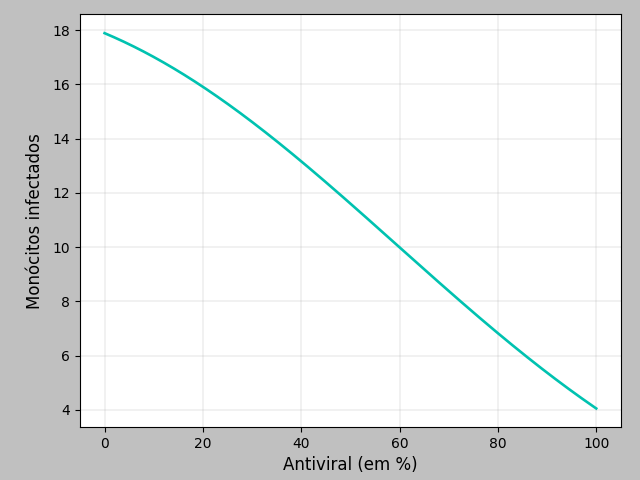
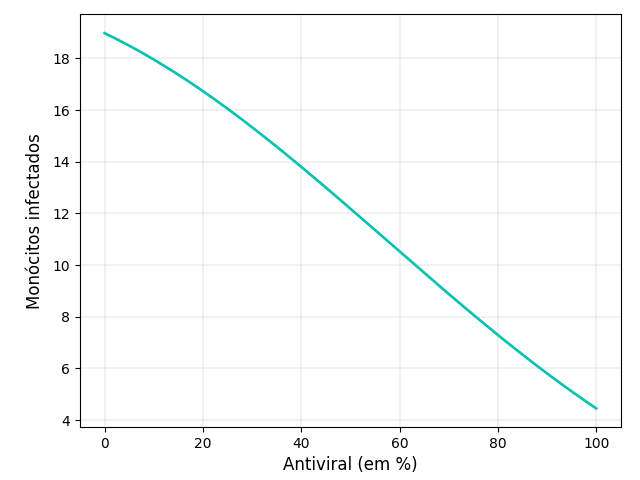
Refactor: Remove all unnecessary and redundant parts from main.py

diff --git a/main.py b/main.py
@@ -25,7 +25,6 @@ wks_beta1 = beta + wks_eta * nu / delta
 wks_c1 = wks_c + wks_d * wks_eta / delta
 
 remediocount = [i * 0.001 for i in range(1001)]
-# print (remediocount)
 
 h = 0.01                                             #parâmetro de precisão para método numérico de Runge-Kutta
 h1 = h/2                                             #parâmetro intermediário de precisão para método numérico de Runge-Kutta
@@ -51,42 +50,14 @@ incremento_z = np.zeros((pregnancy,time))
 
 ###############################
 
-s_1 = np.zeros((pregnancy,time,kutta))
-v_1 = np.zeros((pregnancy,time,kutta))
-i_1 = np.zeros((pregnancy,time,kutta))
-z_1 = np.zeros((pregnancy,time,kutta))
-
-ds_1 = np.zeros((pregnancy,time - 1,kutta))
-dv_1 = np.zeros((pregnancy,time - 1,kutta))
-di_1 = np.zeros((pregnancy,time - 1,kutta))
-dz_1 = np.zeros((pregnancy,time - 1,kutta))
-
-incremento_s_1 = np.zeros((pregnancy,time))
-incremento_i_1 = np.zeros((pregnancy,time))
-incremento_v_1 = np.zeros((pregnancy,time))
-incremento_z_1 = np.zeros((pregnancy,time))
-
-dados_2 = np.zeros((pregnancy+9,time,kutta))
-dados_3 = np.zeros((pregnancy+9,time,kutta))
-dados_4 = np.zeros((pregnancy+9,time,kutta))
-dados_5 = np.zeros((pregnancy+9,time,kutta))
-
 s[:,0,0] = 250 
 i[:,0,0] = 10
 v[:,0,0] = 165
 z[:,0,0] = 2000 
 
-s_1[:,0,0] = 250 
-i_1[:,0,0] = 10
-v_1[:,0,0] = 165
-z_1[:,0,0] = 2000 
-
-dados_x = np.zeros((pregnancy+55,time,kutta))
-
 day = 3#1/1.33/2/3/4/5
 
 for w in range(len(remediocount)):
-    # print(w) 
     for n in range(time - 1):
         for r in range(kutta):
             ds[w,n,r] = wks_mu[0] - alpha * s[w,n,r] - a[2] * s[w,n,r] * v[w,n,r]
@@ -94,63 +65,25 @@ for w in range(len(remediocount)):
             dv[w,n,r] = (1 - remediocount[w]) * k * i[w,n,r] - gamma * v[w,n,r] - a[2] * s[w,n,r] * v[w,n,r]
             dz[w,n,r] = wks_eta[0] + wks_c[0] * i[w,n,r] + wks_d[0] * i[w,n,r] * z[w,n,r] - delta * z[w,n,r]
 
-            # ds_1[w,n,r] = wks_mu[0] - alpha * s_1[w,n,r] - a[2] * s_1[w,n,r] * v_1[w,n,r]
-            # di_1[w,n,r] = a[2] * s_1[w,n,r] * v_1[w,n,r] - beta * i_1[w,n,r] - nu * i_1[w,n,r] * z_1[w,n,r]
-            # dv_1[w,n,r] = k * i_1[w,n,r] - gamma * v_1[w,n,r] - a[2] * s_1[w,n,r] * v_1[w,n,r]
-            # dz_1[w,n,r] = wks_eta[0] + wks_c[0] * i_1[w,n,r] + wks_d[0] * i_1[w,n,r] * z_1[w,n,r] - delta * z_1[w,n,r]
-
             if r < (kutta - 1):
                 s[w,n,r+1] = s[w,n,r] + h1 * ds[w,n,r]
                 i[w,n,r+1] = i[w,n,r] + h1 * di[w,n,r]
                 v[w,n,r+1] = v[w,n,r] + h1 * dv[w,n,r]
                 z[w,n,r+1] = z[w,n,r] + h1 * dz[w,n,r]
 
-                # s_1[w,n,r+1] = s_1[w,n,r] + h1 * ds_1[w,n,r]
-                # i_1[w,n,r+1] = i_1[w,n,r] + h1 * di_1[w,n,r]
-                # v_1[w,n,r+1] = v_1[w,n,r] + h1 * dv_1[w,n,r]
-                # z_1[w,n,r+1] = z_1[w,n,r] + h1 * dz_1[w,n,r]
-
         incremento_s[w,n] = (h/6) * (ds[w,n,0] + 2 * ds[w,n,1] + 2 * ds[w,n,2] + ds[w,n,3])
         incremento_i[w,n] = (h/6) * (di[w,n,0] + 2 * di[w,n,1] + 2 * di[w,n,2] + di[w,n,3])
         incremento_v[w,n] = (h/6) * (dv[w,n,0] + 2 * dv[w,n,1] + 2 * dv[w,n,2] + dv[w,n,3])
         incremento_z[w,n] = (h/6) * (dz[w,n,0] + 2 * dz[w,n,1] + 2 * dz[w,n,2] + dz[w,n,3])
-
-        # incremento_s_1[w,n] = (h/6) * (ds_1[w,n,0] + 2 * ds_1[w,n,1] + 2 * ds_1[w,n,2] + ds_1[w,n,3])
-        # incremento_i_1[w,n] = (h/6) * (di_1[w,n,0] + 2 * di_1[w,n,1] + 2 * di_1[w,n,2] + di_1[w,n,3])
-        # incremento_v_1[w,n] = (h/6) * (dv_1[w,n,0] + 2 * dv_1[w,n,1] + 2 * dv_1[w,n,2] + dv_1[w,n,3])
-        # incremento_z_1[w,n] = (h/6) * (dz_1[w,n,0] + 2 * dz_1[w,n,1] + 2 * dz_1[w,n,2] + dz_1[w,n,3])
 
         s[w,n+1,0] = s[w,n,0] + incremento_s[w,n]
         i[w,n+1,0] = i[w,n,0] + incremento_i[w,n]
         v[w,n+1,0] = v[w,n,0] + incremento_v[w,n]
         z[w,n+1,0] = z[w,n,0] + incremento_z[w,n]
         
-        # s_1[w,n+1,0] = s_1[w,n,0] + incremento_s_1[w,n]
-        # i_1[w,n+1,0] = i_1[w,n,0] + incremento_i_1[w,n]
-        # v_1[w,n+1,0] = v_1[w,n,0] + incremento_v_1[w,n]
-        # z_1[w,n+1,0] = z_1[w,n,0] + incremento_z_1[w,n]
-
-# graph_generator_3('Tempo (dias)',u'Monócitos/\u03bcL',t,s,s_1,'Susceptible_monocyte_population')
-# graph_generator_3('Tempo (dias)',u'Monócitos/\u03bcL',t,i,i_1,'Population_of_infected_monocytes')
-# graph_generator_3('Tempo (dias)',u'Partículas virais/\u03bcL',t,v,v_1,'Zika_virus_population')
-# graph_generator_3('Tempo (dias)',u'Linfócitos T/\u03bcL',t,z,z_1,'T-lymphocyte_population')
-
-# s_1 = s[:,:,:]
-# s_1[0,:,0] = remediocount
-# print(s.shape)
-# print(s_1.shape)
-
-# graph_generator_3('Tempo (dias)', u'Monócitos/\u03bcL', remediocount, s[:, :], s[:, :], 'Susceptible_monocyte_population_2D')
-# graph_generator_3('Tempo (dias)', u'Monócitos/\u03bcL', t, i[:, :], i[:, :], 'Infected_monocyte_population_2D')
-# graph_generator_3('Tempo (dias)', u'Partículas virais/\u03bcL', t, v[:, :], v[:, :], 'Zika_virus_population_2D')
-# graph_generator_3('Tempo (dias)', u'Linfócitos T/\u03bcL', t, z[:, :], z[:, :], 'T_lymphocyte_population_2D')
-
-# graph_3D_generator(t,remediocount,s[:, :, 0],'Monócitos sucetíveis','gráfico-s')
-# graph_3D_generator(t,remediocount,i[:, :, 0],'Monócitos infectados','gráfico-i')
-# graph_3D_generator(t,remediocount,v[:, :, 0],'Partículas virais','gráfico-v')
-# graph_3D_generator(t,remediocount,z[:, :, 0],'Linfócitos T','gráfico-z')
 remediocount = [i * 100 for i in remediocount]
-graph_2D_generator(t,remediocount,s[:, 134, 0],'Monócitos sucetíveis','gráfico-s')
-graph_2D_generator(t,remediocount,i[:, 134, 0],'Monócitos infectados','gráfico-i')
-graph_2D_generator(t,remediocount,v[:, 134, 0],'Partículas virais','gráfico-v')
-graph_2D_generator(t,remediocount,z[:, 134, 0],'Linfócitos T','gráfico-z')
+
+graph_2D_generator(t,remediocount,s[:, 128, 0],'Monócitos sucetíveis','gráfico-s')
+graph_2D_generator(t,remediocount,i[:, 128, 0],'Monócitos infectados','gráfico-i')
+graph_2D_generator(t,remediocount,v[:, 128, 0],'Partículas virais','gráfico-v')
+graph_2D_generator(t,remediocount,z[:, 128, 0],'Linfócitos T','gráfico-z')

diff --git a/generateGraphs.py b/generateGraphs.py
@@ -11,8 +11,8 @@ def save_file(nome):                       # Saves the file in a specific result
     return 0
 
 def graph_generator_3(eixo_x,eixo_y,t,dados,dados2,nome):
-    day = 1
-    fig, ax = plt.subplots()                         # Creates a figure and an axis with a light gray background
+    day = 1 #modificar 
+    fig, ax = plt.subplots()                         # Creates a figure and an axis
     ax.set_facecolor("#FFFFFF")                      # Sets the axis background to white
     plt.subplots_adjust(right=0.97, top=0.97)        # Adjusts the position of the subplots
     plt.xlabel(eixo_x, fontsize = 12, labelpad = 4)  # Sets the x-axis label
@@ -28,7 +28,7 @@ def graph_generator_3(eixo_x,eixo_y,t,dados,dados2,nome):
 
 
 def graph_2D_generator(t,data1, data2, eixo_y_label, nome):
-    fig, ax = plt.subplots(facecolor='#C0C0C0')        # Creates a figure and an axis with a light gray background
+    fig, ax = plt.subplots()                           # Creates a figure and an axis
     ax.set_facecolor("#FFFFFF")                        # Sets the axis background to white
     eixo_x_label = "Antiviral (em %)"                  # Sets the x-axis label
     plt.subplots_adjust(right=0.97, top=0.97)          # Adjusts the position of the subplots
